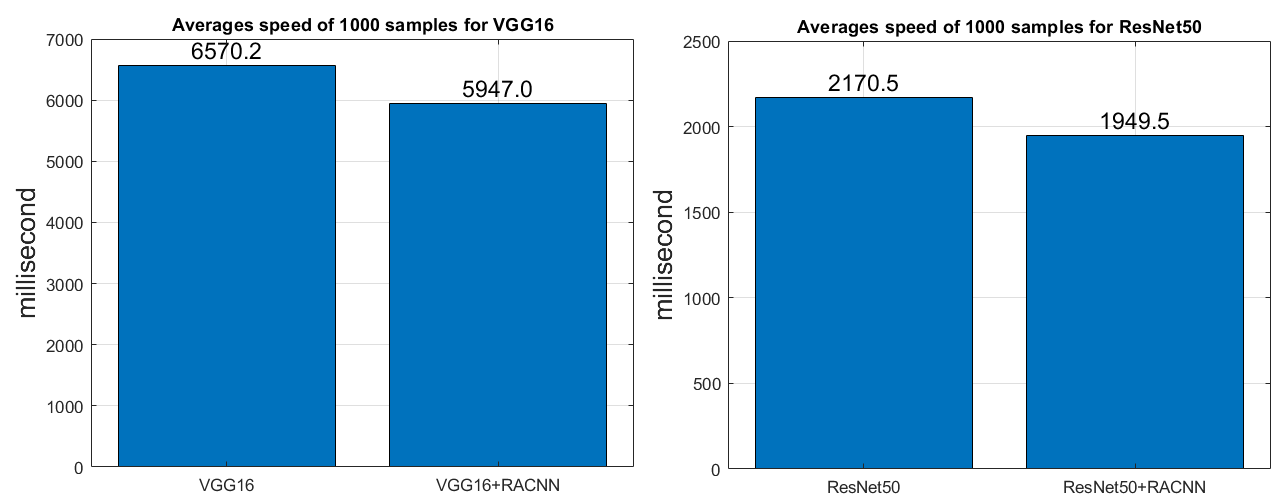
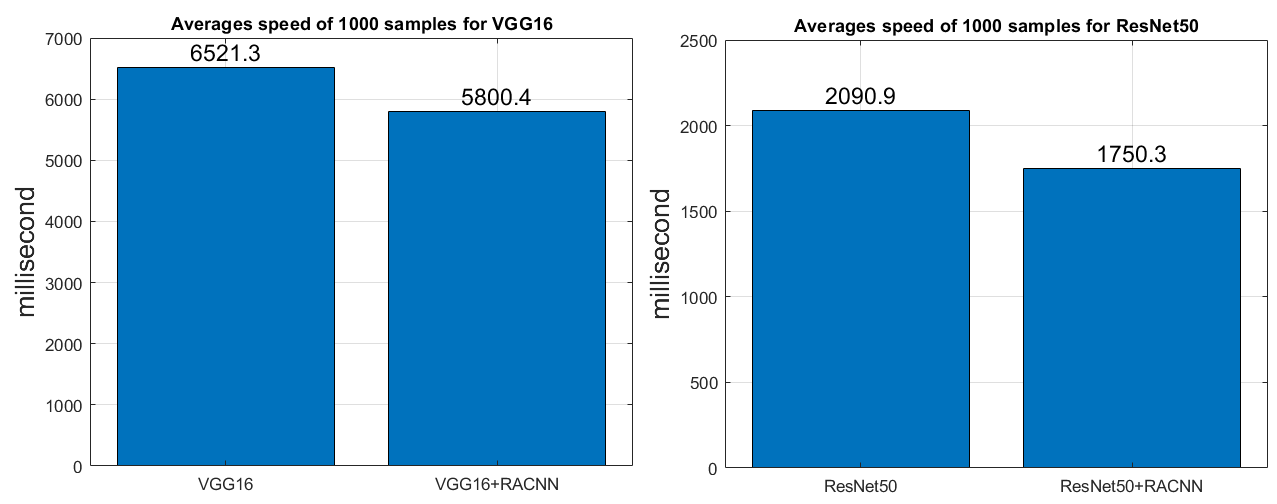
-O3 compile optimization level

diff --git a/racnn/setup.py b/racnn/setup.py
@@ -7,9 +7,9 @@ if platform.system() == "Windows":
 		compiler_options = ['-DAVX_AVX2']
 elif platform.system() == "Linux":
 	if platform.machine()=='x86_64':
-		compiler_options = ['-std=c++11', '-DAVX_AVX2', '-march=native']
+		compiler_options = ['-std=c++11', '-DAVX_AVX2', '-march=native', '-O3']
 	elif platform.machine()=='armv7l':
-		compiler_options = ['-std=c++11', '-DARM_NEON', '-mfpu=neon', '-mcpu=''cortex-a72''',  '-mtune=''cortex-a72''']
+		compiler_options = ['-std=c++11', '-DARM_NEON', '-mfpu=neon', '-mcpu=''cortex-a72''',  '-mtune=''cortex-a72''', '-O3']
 	
 		
 module = Extension('racnnlib',
